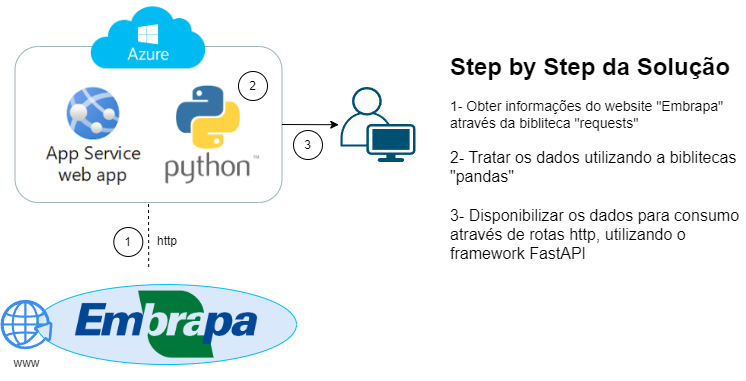
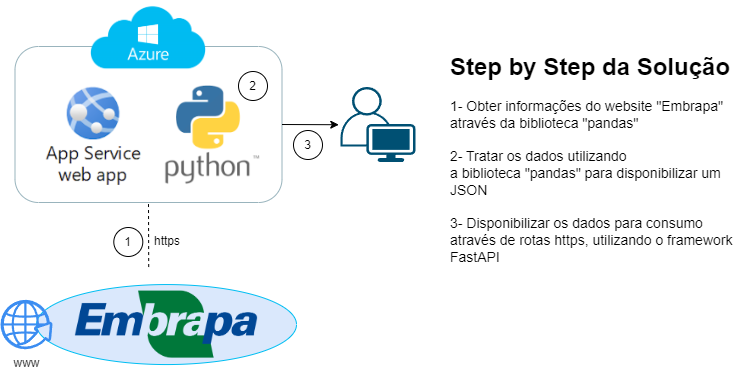
second deploy

diff --git a/README.md b/README.md
@@ -32,11 +32,10 @@ A seguir, são detalhados os endpoints disponíveis na API, onde é possível re
 A API foi criada em Python, utilizando o framework FastAPI. Para realizar o scrapping da página da Embrapa, empregamos a biblioteca Pandas, realizando solicitações GET às URLs fornecidas pela Embrapa. Em seguida, os dados foram transformados em um dataframe e convertidos para JSON. O Código fonte está armazenado em um repositório no GiHub, e utilizando o GitHub Actions para automatizar o deploy do código no serviço de aplicativos da Azure. 
 
 Para mais informações de como o App Service funciona, consultar a documentação oficial da Microsoft:
-https://learn.microsoft.com/en-us/training/modules/deploy-run-container-app-service/
+https://learn.microsoft.com/en-us/azure/app-service/
 
 ![Alt text](/Documentation/Pos_TechChallenge_v1-Deploy.png?raw=true "Optional Title")
 
-Após o acesso à AWS for viabilizado e os devidos conteúdos serem apresentados, vamos migrar a solução para o ambiente, dando continuidade nos próximos desenvolvimentos do curso. 
 
 ## Considerações Finais
 
